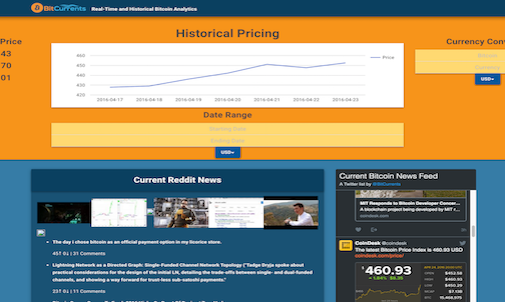
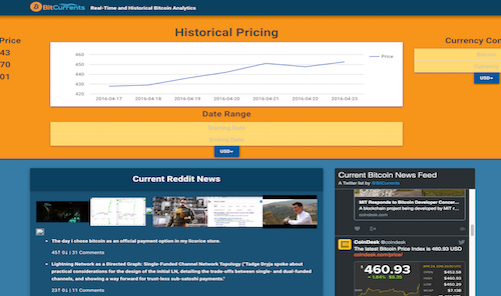
fixed some of the images sizes that were slightly off

diff --git a/routes/about_me.html b/routes/about_me.html
@@ -133,7 +133,7 @@
       <a href="http://rutgersapp.herokuapp.com"> 
       <img src="/images/rutgersVF.png" id="imgC"/> </a>
       <div class ="carousel-content">
-      <p> This application allows users to create an account in order to submit reviews and rate various venues around the New Brunswick area. This application was created with the rutgers community in mind. Click to try it!   </p>
+  <!--     <p> This application allows users to create an account in order to submit reviews and rate various venues around the New Brunswick area. This application was created with the rutgers community in mind. Click to try it!   </p> -->
       </div>
 
     </div>
@@ -169,8 +169,8 @@
 <script src="https://ajax.googleapis.com/ajax/libs/jquery/2.1.3/jquery.min.js"></script>
 <script src="https://maxcdn.bootstrapcdn.com/bootstrap/3.3.4/js/bootstrap.min.js"></script>
 <script type="text/javascript" src="/js/spin.js"></script>
-<script type="text/javascript" src="/js/githubRepos.js"></script>
-<script type="text/javascript" src="/js/githubCommits.js"></script>
+<!-- <script type="text/javascript" src="/js/githubRepos.js"></script>
+<script type="text/javascript" src="/js/githubCommits.js"></script> -->
 
 </body>
 </html>

diff --git a/public/css/inputs.css b/public/css/inputs.css
@@ -140,12 +140,13 @@ footer {
 
 #imgC {
     width: 100%;
-    height: 100%;
+    height: auto%;
+    max-height: 50px%;
 }
 
 .carousel-content {
   position: absolute;
-  bottom: 10%;
+  bottom:10%;
   left: 5%;
   z-index: 20;
   color: white;
